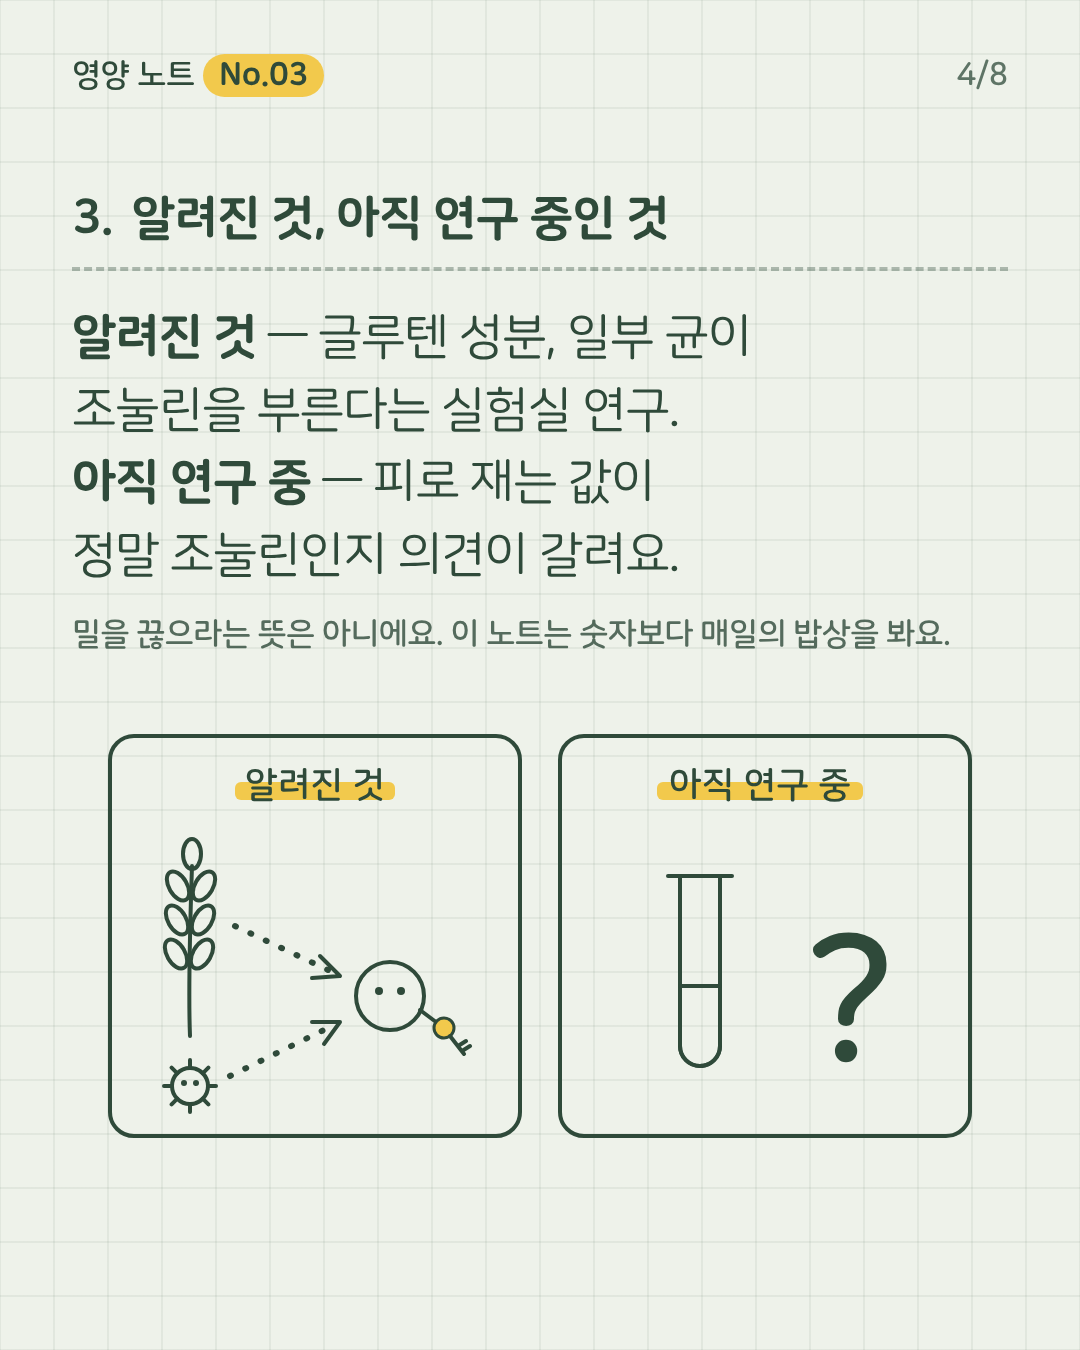
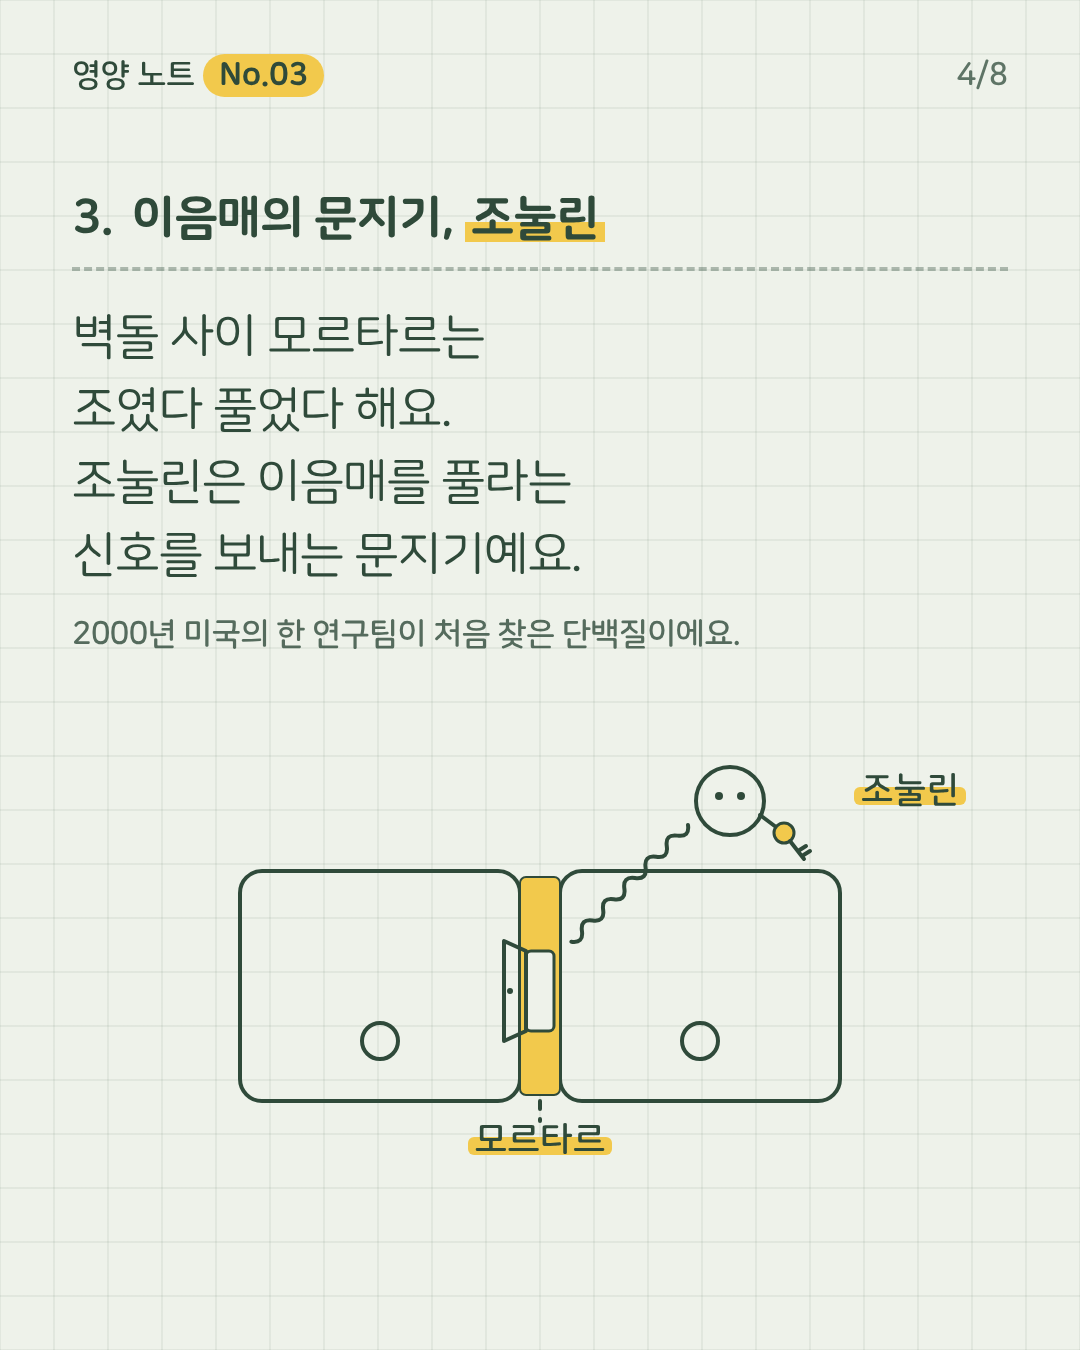
영양노트 No.03 최종: '알려진 것' 카드만 빼고 8장 (회장님 정정) · 앞으로 알려진 것 카드 넣지 않기
Claude-Session: https://claude.ai/code/session_01Ethqw5r7mmktrKzGmpSNVy

diff --git a/company/초안/영양노트/No03-카드/cards.html b/company/초안/영양노트/No03-카드/cards.html
@@ -205,11 +205,57 @@ svg .t{fill:var(--ink);font-family:"NSR";font-weight:700}
 </section>
 
 <!-- 3장 — 뷰티르산을 만드는 밥상 -->
-<!-- 4장 — 이음매의 문지기, 조눌린 -->
-<section class="card" id="c4">
+<section class="card" id="c3">
   <div class="head"><div>영양 노트<span class="no">No.03</span></div><div class="page">3/8</div></div>
   <div class="body">
-    <p class="sub"><span class="num">2.</span> 이음매의 문지기, <span class="hl">조눌린</span></p>
+    <p class="sub"><span class="num">2.</span> 뷰티르산을 만드는 밥상</p>
+    <p class="txt">통곡물·콩·채소, 그리고<br>식은 밥·식은 감자.<br>식으면 녹말 일부가 다시 뭉쳐<br>큰창자까지 내려가요.</p>
+    <p class="small">이런 녹말을 <span class="hl">저항성 전분</span>이라고 해요. 다시 데워도 일부는 남아요.</p>
+    <div class="ill">
+      <svg width="900" height="440" viewBox="0 0 900 440">
+        <!-- 잡곡밥 한 공기 -->
+        <path class="s" fill="#FAFBF7" d="M76 196 C86 152 174 152 184 196 Z"/>
+        <g fill="#2F4A3A"><circle cx="112" cy="180" r="3.5"/><circle cx="134" cy="168" r="3.5"/><circle cx="152" cy="182" r="3.5"/><circle cx="126" cy="188" r="3.5"/><circle cx="160" cy="170" r="3.5"/><circle cx="100" cy="190" r="3.5"/></g>
+        <path class="s" fill="#FAFBF7" d="M70 196 C74 250 186 250 190 196 Z"/>
+        <path class="s" d="M110 252 H150"/>
+        <!-- 식힘 눈송이 -->
+        <path class="s" stroke-width="3" d="M218 112 V148 M202 121 L234 139 M202 139 L234 121"/>
+        <!-- 콩자반 종지 -->
+        <path class="s" fill="#FAFBF7" d="M262 212 C266 252 350 252 354 212 Z"/>
+        <ellipse class="s" cx="308" cy="212" rx="46" ry="10" fill="#FAFBF7"/>
+        <g fill="#2F4A3A"><ellipse cx="292" cy="208" rx="8" ry="5"/><ellipse cx="310" cy="204" rx="8" ry="5"/><ellipse cx="326" cy="209" rx="8" ry="5"/></g>
+        <!-- 나물 접시 -->
+        <ellipse class="s" cx="490" cy="232" rx="90" ry="22" fill="#FAFBF7"/>
+        <ellipse class="s" stroke-width="3" cx="490" cy="230" rx="60" ry="12" opacity=".6"/>
+        <path class="s" d="M438 222 q10 -22 20 0 t20 0 t20 0 t20 0 t20 0"/>
+        <path class="s" d="M448 208 q10 -18 20 0 t20 0 t20 0 t20 0"/>
+        <!-- 찐 감자 두 알 -->
+        <ellipse class="s" cx="690" cy="250" rx="92" ry="14" fill="#FAFBF7"/>
+        <ellipse class="s" cx="660" cy="220" rx="42" ry="30" fill="#FAFBF7" transform="rotate(-10 660 220)"/>
+        <ellipse class="s" cx="728" cy="224" rx="38" ry="27" fill="#FAFBF7" transform="rotate(12 728 224)"/>
+        <g class="s" stroke-width="3" opacity=".6"><path d="M646 210 q4 -4 8 0"/><path d="M670 228 q4 -4 8 0"/><path d="M720 214 q4 -4 8 0"/><path d="M736 232 q4 -4 8 0"/></g>
+        <!-- 식힘 눈송이 -->
+        <path class="s" stroke-width="3" d="M800 140 V176 M784 149 L816 167 M784 167 L816 149"/>
+        <!-- 밥상 선 -->
+        <path class="s" stroke-width="3" opacity=".5" d="M40 272 H860"/>
+        <!-- 감자에서 큰창자 균으로 점선 -->
+        <path d="M690 286 C690 340 650 378 572 394" fill="none" stroke="#2F4A3A" stroke-width="6" stroke-linecap="round" stroke-dasharray="1 16"/>
+        <path class="s" d="M586 378 L566 395 L590 406"/>
+        <rect x="708" y="338" width="172" height="18" rx="6" fill="#F2C94C"/>
+        <text class="t" x="712" y="352" font-size="32">저항성 전분</text>
+        <g transform="translate(524 396)"><circle class="s" r="18" fill="#FAFBF7"/><path class="s" stroke-width="3" d="M18 0 L26 0 M12.7 -12.7 L18.4 -18.4 M0 -18 L0 -26 M-12.7 -12.7 L-18.4 -18.4 M-18 0 L-26 0 M-12.7 12.7 L-18.4 18.4 M0 18 L0 26 M12.7 12.7 L18.4 18.4"/><circle cx="-6" cy="-3" r="3" fill="#2F4A3A"/><circle cx="6" cy="-3" r="3" fill="#2F4A3A"/></g>
+        <g transform="translate(470 404)"><circle class="s" r="18" fill="#FAFBF7"/><path class="s" stroke-width="3" d="M18 0 L26 0 M12.7 -12.7 L18.4 -18.4 M0 -18 L0 -26 M-12.7 -12.7 L-18.4 -18.4 M-18 0 L-26 0 M-12.7 12.7 L-18.4 18.4 M0 18 L0 26 M12.7 12.7 L18.4 18.4"/><circle cx="-6" cy="-3" r="3" fill="#2F4A3A"/><circle cx="6" cy="-3" r="3" fill="#2F4A3A"/></g>
+        <text class="t" x="420" y="414" font-size="30" text-anchor="end" opacity=".75">큰창자 속 균</text>
+      </svg>
+    </div>
+  </div>
+</section>
+
+<!-- 4장 — 이음매의 문지기, 조눌린 -->
+<section class="card" id="c4">
+  <div class="head"><div>영양 노트<span class="no">No.03</span></div><div class="page">4/8</div></div>
+  <div class="body">
+    <p class="sub"><span class="num">3.</span> 이음매의 문지기, <span class="hl">조눌린</span></p>
     <p class="txt">벽돌 사이 모르타르는<br>조였다 풀었다 해요.<br>조눌린은 이음매를 풀라는<br>신호를 보내는 문지기예요.</p>
     <p class="small">2000년 미국의 한 연구팀이 처음 찾은 단백질이에요.</p>
     <div class="ill">
@@ -250,54 +296,6 @@ svg .t{fill:var(--ink);font-family:"NSR";font-weight:700}
 </section>
 
 <!-- 5장 — 알려진 것, 아직 연구 중인 것 -->
-<section class="card" id="c5">
-  <div class="head"><div>영양 노트<span class="no">No.03</span></div><div class="page">4/8</div></div>
-  <div class="body">
-    <p class="sub"><span class="num">3.</span> 알려진 것, 아직 연구 중인 것</p>
-    <p class="txt"><strong>알려진 것</strong> — 글루텐 성분, 일부 균이<br>조눌린을 부른다는 실험실 연구.<br><strong>아직 연구 중</strong> — 피로 재는 값이<br>정말 조눌린인지 의견이 갈려요.</p>
-    <p class="small">밀을 끊으라는 뜻은 아니에요. 이 노트는 숫자보다 매일의 밥상을 봐요.</p>
-    <div class="ill">
-      <svg width="900" height="440" viewBox="0 0 900 440">
-        <!-- 두 칸 -->
-        <rect class="s" x="20" y="20" width="410" height="400" rx="24" fill="#FAFBF7"/>
-        <rect class="s" x="470" y="20" width="410" height="400" rx="24" fill="#FAFBF7"/>
-        <rect x="145" y="66" width="160" height="18" rx="6" fill="#F2C94C"/>
-        <text class="t" x="225" y="80" font-size="36" text-anchor="middle">알려진 것</text>
-        <rect x="567" y="66" width="206" height="18" rx="6" fill="#F2C94C"/>
-        <text class="t" x="670" y="80" font-size="36" text-anchor="middle">아직 연구 중</text>
-        <!-- 왼쪽: 밀 이삭 -->
-        <path class="s" d="M100 320 C98 270 100 210 102 150"/>
-        <g class="s" stroke-width="3" fill="#F2C94C" fill-opacity=".55">
-          <ellipse cx="102" cy="138" rx="9" ry="15"/>
-          <ellipse cx="88" cy="170" rx="9" ry="16" transform="rotate(-30 88 170)"/><ellipse cx="114" cy="170" rx="9" ry="16" transform="rotate(30 114 170)"/>
-          <ellipse cx="87" cy="204" rx="9" ry="16" transform="rotate(-30 87 204)"/><ellipse cx="113" cy="204" rx="9" ry="16" transform="rotate(30 113 204)"/>
-          <ellipse cx="86" cy="238" rx="9" ry="16" transform="rotate(-30 86 238)"/><ellipse cx="112" cy="238" rx="9" ry="16" transform="rotate(30 112 238)"/>
-        </g>
-        <!-- 왼쪽: 균 -->
-        <g transform="translate(100 370)"><circle class="s" r="18" fill="#FAFBF7"/><path class="s" stroke-width="3" d="M18 0 L26 0 M12.7 -12.7 L18.4 -18.4 M0 -18 L0 -26 M-12.7 -12.7 L-18.4 -18.4 M-18 0 L-26 0 M-12.7 12.7 L-18.4 18.4 M0 18 L0 26 M12.7 12.7 L18.4 18.4"/><circle cx="-6" cy="-3" r="3" fill="#2F4A3A"/><circle cx="6" cy="-3" r="3" fill="#2F4A3A"/></g>
-        <!-- 화살표 → 문지기 -->
-        <path d="M145 210 L238 254" fill="none" stroke="#2F4A3A" stroke-width="6" stroke-linecap="round" stroke-dasharray="1 16"/>
-        <path class="s" d="M230 240 L250 260 L222 262"/>
-        <path d="M140 360 L238 312" fill="none" stroke="#2F4A3A" stroke-width="6" stroke-linecap="round" stroke-dasharray="1 16"/>
-        <path class="s" d="M222 306 L250 306 L234 328"/>
-        <g transform="translate(300 280)">
-          <circle class="s" r="34" fill="#FAFBF7"/>
-          <circle cx="-11" cy="-5" r="4" fill="#2F4A3A"/><circle cx="11" cy="-5" r="4" fill="#2F4A3A"/>
-          <path class="s" stroke-width="3" d="M30 14 L46 26"/>
-          <circle cx="54" cy="32" r="10" fill="#F2C94C" stroke="#2F4A3A" stroke-width="3"/>
-          <path class="s" stroke-width="3" d="M60 40 L74 58 M68 50 L76 45 M72 55 L80 50"/>
-        </g>
-        <!-- 오른쪽: 시험관 + 물음표 -->
-        <path class="s" fill="#F2C94C" fill-opacity=".55" stroke="none" d="M590 270 V330 A20 20 0 0 0 630 330 V270 Z"/>
-        <path class="s" d="M590 160 V330 A20 20 0 0 0 630 330 V160"/>
-        <path class="s" d="M578 160 H642"/>
-        <path class="s" stroke-width="3" d="M590 270 H630"/>
-        <text class="t" x="760" y="340" font-size="170" font-weight="800" text-anchor="middle">?</text>
-      </svg>
-    </div>
-  </div>
-</section>
-
 <!-- 6장 — 챙겨 볼 영양소 1 -->
 <section class="card cn" id="c6">
   <div class="head"><div>영양 노트<span class="no">No.03</span></div><div class="page">5/8</div></div>

diff --git a/company/회장님.md b/company/회장님.md
@@ -191,3 +191,4 @@
 
 - **2026-11-14 회장님 "규칙 한국어로 하기"** — 사장이 보고를 영어로 여러 번 보냄(11/13~14, "한국말로 해", "한국어로 말해!", "한국말로 해라고"). 회장님께 가는 모든 말은 **처음부터 끝까지 한국어**. 팀 보고를 옮길 때도 한국어로 다시 쓴다. 보내기 전에 첫 줄이 한국어인지 꼭 확인.
 - (2026-11-15) 본계정 영상: 음식만 이어지면 '밥만 하러 다니는 사람' 같아 싫어하심 → 사람이 전반적으로 나오고, 회장님은 강의하는 장면에서만 강조. 감성 문장 자막("따뜻한 밥 한 끼" 등)은 닭살·AI 티 → 글자는 최소로, 캡션은 담백하게. 화면 초점은 사람 얼굴에.
+- (2026-11-15) 영양 노트: '알려진 것 / 아직 연구 중인 것' 같은 카드와 문장은 넣지 않는다 — 회장님 "알려진 것을 지워 앞으로 알려진 것은 지워"
